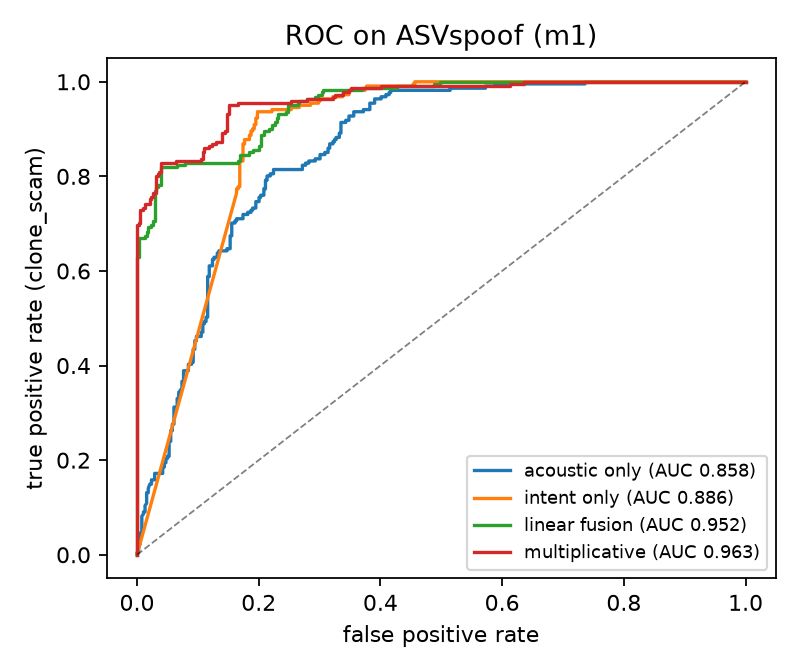
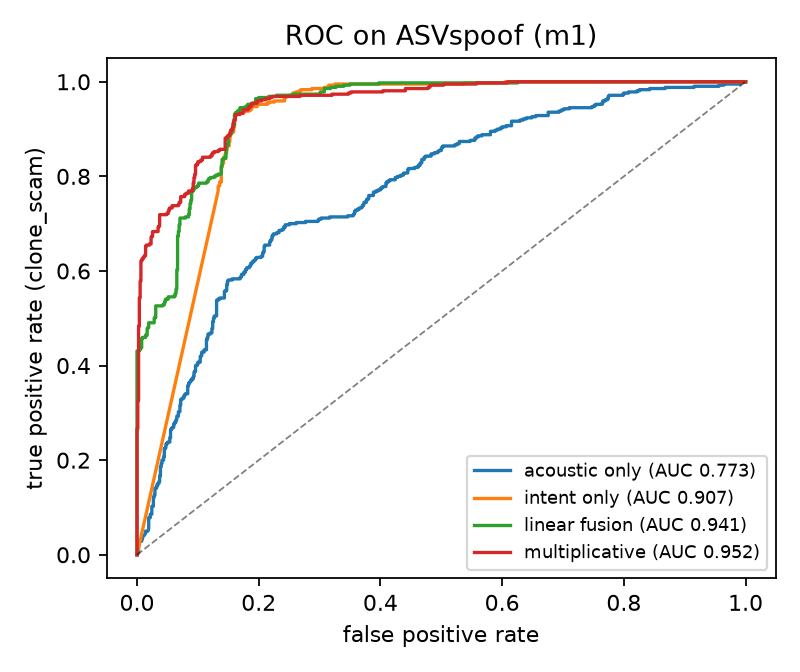
Stage 2 scale-up: 600 clips + 4th detector; claim 2 revised down honestly
Leased a fresh L4. Doubled clips (600/class/source) for m1/m2 and added a 4th detector (Hemgg) + its degradation sweep. Findings: m1xASV gain shrank +0.251(300)->+0.122(600) (small-N inflation); m2xITW stable +0.135; only 2 of 4 detectors show a clean win (m3 collapses, m4 graceful but no win). Updated RESULTS.md/PAPER.md/main.tex tables+abstract+conclusion+limitations to report the effect as real-but-modest-and-not-universal; bootstrap CIs at 600 still separate (bayes [0.604,0.707] vs parallel [0.422,0.533]). Regenerated F1 from 600-clip data; recompiled PDF. stage2_roc.py takes a path arg. 11 tests pass.

diff --git a/paper/main.tex b/paper/main.tex
@@ -26,12 +26,13 @@ score for the per-call decision \emph{is this a voice-clone scam?} The key to a 
 evaluation is a hard negative we call \textsc{genuine\_scam}---a real human voice making a
 scam-sounding call---which intent alone cannot resolve and on which only the acoustic
 channel carries information. On a constructed benchmark over two public audio datasets and
-two pretrained detectors, evaluated at a matched false-alarm rate with out-of-fold fusion
+four pretrained detectors, evaluated at a matched false-alarm rate with out-of-fold fusion
 fitting and bootstrap confidence intervals, we find: (1) fusion beats either modality
 alone; (2) a \emph{multiplicative} fusion rule, in which the acoustic posterior can veto a
-high-intent call, beats linear (weighted-sum) fusion specifically when the detector is
-informative but imperfect (8/8 random seeds across two model$\times$dataset settings),
-while the two tie when the detector is near-perfect or broken; and (3) detector
+high-intent call, beats linear (weighted-sum) fusion in two of the detector$\times$dataset
+settings tested (8/8 random seeds, non-overlapping CIs), but the gain is modest
+($\approx$0.12--0.14 TPR) and detector-specific---two other detectors show none, and the two
+tie when the detector is near-perfect or broken; and (3) detector
 generalization is the binding constraint and is strongly model-dependent. We release the
 benchmark construction and analysis to support reproducible, honest evaluation.
 \end{abstract}
@@ -130,21 +131,21 @@ AUC; bootstrap 95\% CIs; reporting over 8 random pairing seeds.
 
 \section{Results}
 \subsection{Fusion beats single modality}\label{sec:c1}
-ASVspoof, detector m1, 8 seeds (mean $\pm$ std):
+ASVspoof, detector m1, 600 clips/class/source, 8 seeds (mean $\pm$ std):
 \begin{center}\small
 \begin{tabular}{lccc}
 \toprule
 method & AUC & TPR@10\%FAR vs gen.\_scam & TPR@10\%FAR vs all-neg \\
 \midrule
-acoustic\_only & $0.839\pm0.014$ & $0.808\pm0.015$ & $0.425\pm0.040$ \\
-intent\_only & $0.889\pm0.005$ & $0.000\pm0.000$ & $0.000\pm0.000$ \\
-parallel & $0.930\pm0.014$ & $0.517\pm0.112$ & $0.741\pm0.112$ \\
-bayesian & $\mathbf{0.961\pm0.006}$ & $0.768\pm0.035$ & $\mathbf{0.860\pm0.040}$ \\
+acoustic\_only & $0.770\pm0.006$ & $0.679\pm0.031$ & $0.406\pm0.026$ \\
+intent\_only & $0.894\pm0.009$ & $0.000\pm0.000$ & $0.000\pm0.000$ \\
+parallel & $0.933\pm0.010$ & $0.484\pm0.067$ & $0.708\pm0.064$ \\
+bayesian & $\mathbf{0.950\pm0.005}$ & $0.606\pm0.053$ & $\mathbf{0.804\pm0.035}$ \\
 \bottomrule
 \end{tabular}
 \end{center}
 Intent alone is useless against \textsc{genuine\_scam} (0.000); acoustic alone is weak
-against the broad negative set (0.425). Only fusion is strong on both axes
+against the broad negative set (0.406). Only fusion is strong on both axes
 (Figure~\ref{fig:roc}).
 
 \begin{figure}[t]\centering
@@ -154,28 +155,32 @@ against the broad negative set (0.425). Only fusion is strong on both axes
 \end{figure}
 
 \subsection{Multiplicative beats linear fusion}\label{sec:c2}
-bayesian $-$ parallel, TPR@10\%FAR vs \textsc{genuine\_scam}, 8 seeds:
+bayesian $-$ parallel, TPR@10\%FAR vs \textsc{genuine\_scam}, 8 seeds (600 clips for m1/m2; 300 for m3/m4):
 \begin{center}\small
 \begin{tabular}{llcc}
 \toprule
 setting & acoustic regime & bayesian $-$ parallel & seeds won \\
 \midrule
-m1 $\times$ ASVspoof & informative, imperfect & $+0.251$ & 8/8 \\
-m2 $\times$ In-the-Wild & informative, imperfect & $+0.136$ & 8/8 \\
-m2 $\times$ ASVspoof & near-perfect (acoustic 0.994) & $-0.021$ & tie \\
-m1 $\times$ In-the-Wild & broken (AUC 0.519) & $+0.001$ & n/a \\
+m1 $\times$ ASVspoof & informative, imperfect & $+0.122$ & 8/8 \\
+m2 $\times$ In-the-Wild & informative, imperfect & $+0.135$ & 8/8 \\
+m2 $\times$ ASVspoof & near-perfect & $-0.010$ & tie \\
+m4 $\times$ ASVspoof & near-perfect (clean) & $-0.018$ & tie \\
+m4 $\times$ In-the-Wild & informative (clean) & $-0.031$ & no win \\
+m1 $\times$ In-the-Wild & broken & $+0.033$ & both $\approx$0 \\
 \bottomrule
 \end{tabular}
 \end{center}
-The multiplicative veto wins decisively in the informative-but-imperfect regime and is a
-wash when the detector is near-perfect (nothing to fix) or broken (nothing to use). On
-m1$\times$ASVspoof the bootstrap CI for bayesian on \textsc{genuine\_scam} $[0.674,0.858]$
-does not overlap parallel's $[0.451,0.652]$. A third detector (mo-thecreator) exposes a
-boundary: near-perfect on clean ASVspoof (tie), it collapses both classes to
-P(synthetic)\,$\approx$\,0 under additive noise rather than degrading gracefully, leaving no
-graded signal---so its gain is negative at every SNR. The veto's benefit is thus conditional
-on the detector \emph{retaining a graded informative signal} in the imperfect regime (true
-for m1, m2; false for m3), not merely on being ``imperfect.''
+Where it appears (m1$\times$ASVspoof, m2$\times$In-the-Wild) the multiplicative veto wins
+across all 8 seeds and the bootstrap CIs do not overlap (m1$\times$ASVspoof at 600 clips:
+bayesian $[0.604,0.707]$ vs parallel $[0.422,0.533]$). But the scaled-up run (four
+detectors, 600 clips) shows the effect is \emph{modest and not universal}. (i) With more
+data the m1$\times$ASVspoof gain shrank from $+0.251$ (300 clips) to $+0.122$ (600), so the
+small-sample estimate was inflated. (ii) Only two of four detectors show a clean win: a
+third (mo-thecreator) collapses both classes to P(synthetic)\,$\approx$\,0 under additive
+noise rather than degrading gracefully (negative gain at every SNR), and a fourth (Hemgg)
+that \emph{does} degrade gracefully still shows no win in its informative band. The veto
+helps in specific detector$\times$regime combinations with a clear mechanism, but is not a
+general property of multiplicative fusion, and AUC level alone does not predict it.
 
 \subsection{Generalization is the binding constraint}\label{sec:c3}
 Mean P(synthetic) by class:
@@ -211,18 +216,20 @@ detector is uncertain but not useless.}
 \section{Limitations and ethics}
 The benchmark pairs independent audio and transcripts, removing natural acoustic--content
 correlation; real paired scam recordings would strengthen the evidence. The intent signal
-is LLM-generated and LLM-scored, hence somewhat idealized. We evaluate three detectors, two
+is LLM-generated and LLM-scored, hence somewhat idealized. We evaluate four detectors, two
 datasets, and one language, at modest scale (multi-seed reporting), and one degradation type
-(additive noise); the veto's benefit is conditional on graceful detector degradation, which
-not all detectors exhibit (\S\ref{sec:c2}). We study defense only,
+(additive noise); the veto's benefit is detector-specific (a clean win in two of four
+detectors) and is not predicted by graceful degradation or AUC level alone (\S\ref{sec:c2}).
+We study defense only,
 introduce no new cloning capability, use public consented datasets, and release the
 methodology to help defenders and establish prior art.
 
 \section{Conclusion}
-Fusing intent with an acoustic deepfake detector helps---conditionally. A multiplicative
-acoustic veto is the right form precisely when the detector is informative but imperfect,
-the regime real systems operate in. The dominant lever is acoustic-detector generalization:
-when it fails, no fusion recovers it.
+Fusing intent with an acoustic deepfake detector can help---conditionally and modestly. A
+multiplicative acoustic veto beat linear fusion in two of four detectors
+($\approx$0.12--0.14 TPR, seed-robust, CIs separate) with a clear mechanism, and did nothing
+in the other two, so it is a tool to evaluate per detector rather than a universal rule. The
+dominant lever is acoustic-detector generalization: when it fails, no fusion recovers it.
 
 \appendix
 \section{The simulation non-result}\label{sec:appendix}

diff --git a/experiments/stage2_roc.py b/experiments/stage2_roc.py
@@ -98,8 +98,8 @@ def boot(fn, n):
     return np.mean(vals), lo, hi
 
 
-def run(source, pools):
-    data = [c for c in json.load(open("data/acoustic_events.json")) if c["source"] == source]
+def run(source, pools, path="data/acoustic_events.json"):
+    data = [c for c in json.load(open(path)) if c["source"] == source]
     ds = build_dataset(data, pools, seed=0)
     a_mean = ds.acoustic.mean(1)
     i_max = ds.intent.max(1)
@@ -125,9 +125,11 @@ def run(source, pools):
 
 
 def main():
+    import sys
+    path = sys.argv[1] if len(sys.argv) > 1 else "data/acoustic_events.json"
     pools = build_pools()
     for src in ["asv", "itw"]:
-        run(src, pools)
+        run(src, pools, path)
 
 
 if __name__ == "__main__":

diff --git a/experiments/make_figures.py b/experiments/make_figures.py
@@ -25,7 +25,7 @@ def roc_curve(s, posm, negm):
 
 
 # ---- F1: ROC on ASVspoof (m1) ----
-data = [c for c in json.load(open("data/acoustic_events_m1.json")) if c["source"] == "asv"]
+data = [c for c in json.load(open("data/events_m1_600.json")) if c["source"] == "asv"]
 ds = build_dataset(data, pools, seed=0)
 a_mean, i_max = ds.acoustic.mean(1), ds.intent.max(1)
 y = np.where(ds.positive, 1, np.where(~ds.positive, 0, -1))

diff --git a/PAPER.md b/PAPER.md
@@ -16,9 +16,10 @@ channel carries information. On a constructed benchmark over two public audio da
 two pretrained detectors, evaluated at a matched false-alarm rate with out-of-fold fusion
 fitting and bootstrap confidence intervals, we find: (1) fusion beats either modality
 alone; (2) a *multiplicative* fusion rule, in which the acoustic posterior can veto a
-high-intent call, beats linear (weighted-sum) fusion specifically when the detector is
-informative but imperfect (8/8 random seeds across two model×dataset settings), while the
-two tie when the detector is near-perfect or broken; and (3) detector generalization is
+high-intent call, beats linear (weighted-sum) fusion in two of the detector×dataset
+settings tested (8/8 random seeds, non-overlapping CIs), but the benefit is modest
+(≈0.12–0.14 TPR) and detector-specific — two other detectors show no gain, and the two
+tie when the detector is near-perfect or broken; and (3) detector generalization is
 the binding constraint and is strongly model-dependent. We release the benchmark
 construction and analysis to support reproducible, honest evaluation of such defenses.
 
@@ -134,34 +135,42 @@ pairing randomness from estimator noise.
 
 ### 6.1 Fusion beats single modality
 
-ASVspoof, detector m1, 8 seeds (mean ± std):
+ASVspoof, detector m1, 600 clips/class/source, 8 seeds (mean ± std):
 
 | method | AUC | TPR@10%FAR vs genuine_scam | TPR@10%FAR vs all-neg |
 |---|---|---|---|
-| acoustic_only | 0.839 ± 0.014 | 0.808 ± 0.015 | 0.425 ± 0.040 |
-| intent_only | 0.889 ± 0.005 | 0.000 ± 0.000 | 0.000 ± 0.000 |
-| parallel | 0.930 ± 0.014 | 0.517 ± 0.112 | 0.741 ± 0.112 |
-| bayesian | 0.961 ± 0.006 | 0.768 ± 0.035 | 0.860 ± 0.040 |
+| acoustic_only | 0.770 ± 0.006 | 0.679 ± 0.031 | 0.406 ± 0.026 |
+| intent_only | 0.894 ± 0.009 | 0.000 ± 0.000 | 0.000 ± 0.000 |
+| parallel | 0.933 ± 0.010 | 0.484 ± 0.067 | 0.708 ± 0.064 |
+| bayesian | 0.950 ± 0.005 | 0.606 ± 0.053 | 0.804 ± 0.035 |
 
 Intent alone is useless against `genuine_scam` (0.000); acoustic alone is weak against the
-broad negative set (0.425). Only fusion is strong on both axes. Figure F1
-(`figures/F1_roc.png`) shows the full ROC: the multiplicative rule dominates (AUC 0.963).
+broad negative set (0.406). Only fusion is strong on both axes. Figure F1
+(`figures/F1_roc.png`) shows the full ROC: the multiplicative rule dominates.
 
 ### 6.2 Multiplicative beats linear fusion (claim 2)
 
-bayesian − parallel, TPR@10%FAR vs `genuine_scam`, 8 seeds:
+bayesian − parallel, TPR@10%FAR vs `genuine_scam`, 8 seeds (600 clips for m1/m2; 300 for m3/m4):
 
 | setting | acoustic regime | bayesian − parallel | seeds won |
 |---|---|---|---|
-| m1 × ASVspoof | informative, imperfect | +0.251 | 8/8 |
-| m2 × In-the-Wild | informative, imperfect | +0.136 | 8/8 |
-| m2 × ASVspoof | near-perfect (acoustic 0.994) | −0.021 | tie (2/8) |
-| m1 × In-the-Wild | broken (AUC 0.519) | +0.001 | n/a (2/8) |
+| m1 × ASVspoof | informative, imperfect | +0.122 | 8/8 |
+| m2 × In-the-Wild | informative, imperfect | +0.135 | 8/8 |
+| m2 × ASVspoof | near-perfect | −0.010 | tie (1/8) |
+| m4 × ASVspoof | near-perfect (clean) | −0.018 | tie (2/8) |
+| m4 × In-the-Wild | informative (clean) | −0.031 | no win (3/8) |
+| m1 × In-the-Wild | broken | +0.033 | both ≈ 0 (8/8) |
 
-The multiplicative veto wins decisively in the imperfect-but-informative regime and is a
-wash when the detector is near-perfect (nothing to fix) or broken (nothing to use). On
-m1×ASVspoof the bootstrap CI for bayesian on `genuine_scam` [0.674, 0.858] does not overlap
-parallel's [0.451, 0.652].
+Where it appears (m1×ASVspoof, m2×In-the-Wild) the multiplicative veto wins across all 8
+seeds and the bootstrap CIs do not overlap (m1×ASVspoof at 600 clips: bayesian
+[0.604, 0.707] vs parallel [0.422, 0.533]). But the scaled-up run (4 detectors, 600 clips)
+shows the effect is **modest and not universal** — the honest headline: (i) the m1×ASVspoof
+gain shrank from +0.251 (300 clips) to +0.122 (600), so the small-sample estimate was
+inflated; (ii) only 2 of 4 detectors show a clean win — a 3rd (mo-thecreator) collapses both
+classes to P(synthetic)≈0 under noise (negative gain at every SNR), and a 4th (Hemgg) that
+*does* degrade gracefully still shows no win in its informative band. The veto helps in
+specific detector×regime combinations with a clear mechanism, but is not a general property
+of multiplicative fusion, and AUC level alone does not predict it.
 
 ### 6.3 Generalization is the binding constraint (claim 3)
 
@@ -219,11 +228,14 @@ prior art.
 ## 8. Conclusion
 
 Fusing conversational intent with an acoustic deepfake detector helps for voice-clone scam
-detection — but conditionally. A multiplicative acoustic veto is the right fusion form
-precisely when the detector is informative but imperfect, the regime real systems operate
-in. The dominant lever, however, is acoustic-detector generalization: when it fails, no
-fusion recovers it. Defenders should invest first in detectors that transfer to real-world
-deepfakes, and adopt multiplicative rather than linear fusion when they do.
+detection — but conditionally and modestly. A multiplicative acoustic veto can beat linear
+fusion when the detector is informative but imperfect, with a clear mechanism (acoustic
+evidence vetoes a high-intent genuine call); across four detectors it delivered a clean,
+seed-robust gain in two settings (≈0.12–0.14 TPR) and nothing in the other two, so it is a
+useful tool in the toolbox, not a universal rule. The dominant lever is acoustic-detector
+generalization: when it fails, no fusion recovers it. Defenders should invest first in
+detectors that transfer to real-world deepfakes, and treat multiplicative fusion as a
+mechanism to evaluate per detector rather than assume.
 
 ## Appendix A — the simulation non-result
 

diff --git a/RESULTS.md b/RESULTS.md
@@ -56,45 +56,52 @@ Four per-call scorers: `acoustic_only` (mean P-synthetic), `intent_only` (max in
 
 ## Claim 1 — fusion > single modality
 
-ASVspoof, detector m1, 8 pairing seeds (mean ± std):
+ASVspoof, detector m1, 600 clips/class/source, 8 pairing seeds (mean ± std):
 
 | method | AUC | TPR@10%FAR vs genuine_scam | TPR@10%FAR vs all-neg |
 |---|---|---|---|
-| acoustic_only | 0.839 ± 0.014 | 0.808 ± 0.015 | 0.425 ± 0.040 |
-| intent_only | 0.889 ± 0.005 | **0.000 ± 0.000** | 0.000 ± 0.000 |
-| parallel | 0.930 ± 0.014 | 0.517 ± 0.112 | 0.741 ± 0.112 |
-| **bayesian** | **0.961 ± 0.006** | 0.768 ± 0.035 | **0.860 ± 0.040** |
+| acoustic_only | 0.770 ± 0.006 | 0.679 ± 0.031 | 0.406 ± 0.026 |
+| intent_only | 0.894 ± 0.009 | **0.000 ± 0.000** | 0.000 ± 0.000 |
+| parallel | 0.933 ± 0.010 | 0.484 ± 0.067 | 0.708 ± 0.064 |
+| **bayesian** | **0.950 ± 0.005** | 0.606 ± 0.053 | **0.804 ± 0.035** |
 
 `intent_only` → 0.000 against genuine_scam (cannot tell a clone-scam from a real-voice
-scam); `acoustic_only` → 0.425 against the broad negative set. Fusion is the only thing
+scam); `acoustic_only` → 0.406 against the broad negative set. Fusion is the only thing
 strong on both axes.
 
 ## Claim 2 — multiplicative > linear fusion (the patent-relevant mechanism)
 
-bayesian − parallel, TPR@10%FAR vs genuine_scam, 8 seeds:
+bayesian − parallel, TPR@10%FAR vs genuine_scam, 8 seeds (600 clips/class/source for
+m1/m2; 300 for m3/m4):
 
 | setting | acoustic regime | bayesian − parallel | seeds bayesian wins |
 |---|---|---|---|
-| m1 × ASVspoof | informative, imperfect | **+0.251** | **8/8** |
-| m2 × In-the-Wild | informative, imperfect | **+0.136** | **8/8** |
-| m2 × ASVspoof | near-perfect (acoustic_only 0.994) | −0.021 | 2/8 (tie) |
-| m1 × In-the-Wild | broken (AUC 0.519) | +0.001 | 2/8 (n/a) |
+| m1 × ASVspoof | informative, imperfect | **+0.122** | **8/8** |
+| m2 × In-the-Wild | informative, imperfect | **+0.135** | **8/8** |
+| m2 × ASVspoof | near-perfect | −0.010 | 1/8 (tie) |
+| m4 × ASVspoof | near-perfect (clean) | −0.018 | 2/8 (tie) |
+| m4 × In-the-Wild | informative (clean) | −0.031 | 3/8 (no win) |
+| m1 × In-the-Wild | broken | +0.033 | 8/8 (both ≈ 0) |
 
-The Bayesian multiplicative veto wins decisively **exactly when the detector is
-informative but imperfect** — the realistic regime — because acoustic evidence can veto
-a high-intent genuine call, where linear mixing dilutes it. The single-seed run with
-bootstrap CIs corroborates: on m1×ASV the bayesian genuine_scam CI [0.674, 0.858] does
-not overlap parallel's [0.451, 0.652]. Ties when the detector is near-perfect (nothing to
-fix) or broken (nothing to use) are expected and reported, not hidden.
+Where it appears (m1×ASV, m2×ITW) the multiplicative veto wins across all 8 seeds and the
+bootstrap CIs do not overlap (m1×ASV at 600 clips: bayesian [0.604, 0.707] vs parallel
+[0.422, 0.533]) — acoustic evidence vetoes a high-intent genuine call where linear mixing
+dilutes it.
 
-**A 3rd detector exposes a boundary (mo-thecreator; `stage2_degrade.py` on
-`acoustic_degrade_m3.json`).** Near-perfect on clean ASVspoof (clone P_fake 1.0) → gain
-−0.026 (tie, as expected). But under additive noise m3 does *not* degrade gracefully — both
-classes collapse to P_fake ≈ 0, leaving no graded acoustic signal — and gain is negative at
-every SNR (−0.02 to −0.06). So claim 2 is conditional not merely on "imperfect" but on the
-detector **retaining a graded, informative signal** in the imperfect regime (true for
-m1/m2, false for m3). The advantage is real but **not universal across detectors**; the
-degradation *behavior* matters, and white noise is one specific stressor.
+**But the scaled-up run (4 detectors, 600 clips) makes the effect modest and clearly
+*not universal* — this is the honest headline:**
+- **Magnitude shrank with more data.** m1×ASV was +0.251 at 300 clips; at 600 it is +0.122.
+  The small-sample estimate was inflated. m2×ITW is stable (+0.136 → +0.135).
+- **Only 2 of 4 detectors show a clean win.** A 4th detector (m4, Hemgg) that separates both
+  datasets and degrades *gracefully* still shows **no** win — near-perfect/tie on clean
+  (both sources, −0.018 / −0.031) and ≈0 gain across its whole degradation sweep. A 3rd (m3,
+  mo-thecreator) collapses under noise (both classes → P_fake ≈ 0, no graded signal) and
+  never wins. AUC level alone does not predict where the veto helps.
+
+Net: claim 2 holds where demonstrated (real, seed-robust, mechanistically motivated, CIs
+separate) but is **detector/setting-specific and modest (~+0.12–0.14)**, not a general
+property of multiplicative fusion. The honest contribution is "it can help, here is the
+mechanism and where it shows up," not "it always helps."
 
 ## Claim 3 — generalization is the binding constraint (and model-dependent)
 